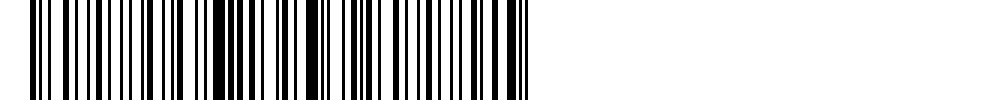
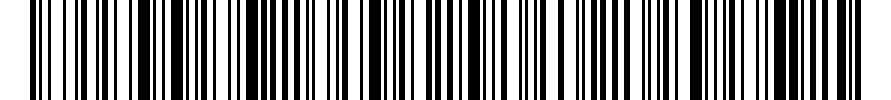
1. Changed width in text_to_code >> 2. Minor UI changes in code_to_data

diff --git a/text_to_code.c b/text_to_code.c
@@ -1,8 +1,8 @@
-#include<stdio.h>
-#include<math.h>
-#include<string.h>
-# define startB 211214
-# define stop 233111
+#include <stdio.h>
+#include <math.h>
+#include <string.h>
+#define startB 211214 //This code is to generade tybe B code 128 barcode
+#define stop 233111   //This is the stooping character to terminate the barcode
 
 #define STB_IMAGE_WRITE_IMPLEMENTATION
 #include "stb_image_write.h"
@@ -10,178 +10,190 @@
 #define channel 1
 #define line 3
 
-int reference[95]={
-212222,
-222122,
-222221,
-121223,
-121322,
-131222,
-122213,
-122312,
-132212,
-221213,
-221312,
-231212,
-112232,
-122132,
-122231,
-113222,
-123122,
-123221,
-223211,
-221132,
-221231,
-213212,
-223112,
-312131,
-311222,
-321122,
-321221,
-312212,
-322112,
-322211,
-212123,
-212321,
-232121,
-111323,
-131123,
-131321,
-112313,
-132113,
-132311,
-211313,
-231113,
-231311,
-112133,
-112331,
-132131,
-113123,
-113321,
-133121,
-313121,
-211331,
-231131,
-213113,
-213311,
-213131,
-311123,
-311321,
-331121,
-312113,
-312311,
-332111,
-314111,
-221411,
-431111,
-111224,
-111422,
-121124,
-121421,
-141122,
-141221,
-112214,
-112412,
-122114,
-122411,
-142112,
-142211,
-241211,
-221114,
-413111,
-241112,
-134111,
-111242,
-121142,
-121241,
-114212,
-124112,
-124211,
-411212,
-421112,
-421211,
-212141,
-214121,
-412121,
-111143,
-111341,
-131141
-};
+int reference[95] = {
+    212222,
+    222122,
+    222221,
+    121223,
+    121322,
+    131222,
+    122213,
+    122312,
+    132212,
+    221213,
+    221312,
+    231212,
+    112232,
+    122132,
+    122231,
+    113222,
+    123122,
+    123221,
+    223211,
+    221132,
+    221231,
+    213212,
+    223112,
+    312131,
+    311222,
+    321122,
+    321221,
+    312212,
+    322112,
+    322211,
+    212123,
+    212321,
+    232121,
+    111323,
+    131123,
+    131321,
+    112313,
+    132113,
+    132311,
+    211313,
+    231113,
+    231311,
+    112133,
+    112331,
+    132131,
+    113123,
+    113321,
+    133121,
+    313121,
+    211331,
+    231131,
+    213113,
+    213311,
+    213131,
+    311123,
+    311321,
+    331121,
+    312113,
+    312311,
+    332111,
+    314111,
+    221411,
+    431111,
+    111224,
+    111422,
+    121124,
+    121421,
+    141122,
+    141221,
+    112214,
+    112412,
+    122114,
+    122411,
+    142112,
+    142211,
+    241211,
+    221114,
+    413111,
+    241112,
+    134111,
+    111242,
+    121142,
+    121241,
+    114212,
+    124112,
+    124211,
+    411212,
+    421112,
+    421211,
+    212141,
+    214121,
+    412121,
+    111143,
+    111341,
+    131141};
 
-char data[50];int length,checksum,encrypt[20];char* img;int width=1000;
+char data[50];
+int length, checksum, encrypt[20];
+char *img;
+int width;
 
-void initializePic(){
-img = malloc(width*height*channel);
-if(img == NULL){
-printf("File could not be created!\n");
-exit(1);
-}
-for(int row=0;row<height;row++){
-    for(int col=0;col<width;col++)
-        img[row*width+col]=255;
-}
+void initializePic()
+{
+    width = ((length + 3) * 11 * line)+20*line+2*line; //A character in bar code has 12 lines or digits.
+            img = malloc(width * height * channel);
+    if (img == NULL)
+    {
+        printf("File could not be created!\n");
+        exit(1);
+    }
+    for (int row = 0; row < height; row++)
+    {
+        for (int col = 0; col < width; col++)
+            img[row * width + col] = 255; //creating a white background.
+    }
 }
 
 void drawVertical(int oneforwhite)
 {
-static int x = 0;
-for(int i = 0; i<height;i++)
-{
+    static int x = 0; //doesn't let x return to 0 in next loop
+    for (int i = 0; i < height; i++)
+    {
 
-for(int j = 0; j<line;j++)
-{
-img[i*width+x*line+j]=(1==oneforwhite)*255;
-}
-
-}
-x++;
-}
-
-void logic(){
-int sum=104;
-for(int i=0;i<length;i++)
-    sum+=data[i]*(i+1);
-checksum=sum%103;
-encrypt[0]=startB;
-for(int i=1;i<length+1;i++)
-    encrypt[i]=reference[data[i-1]];
-encrypt[length+1]=reference[checksum];
-encrypt[length+2]=stop;
-}
-
-void pattern(){
-    for(int i=0;i<length+3;i++){
-        int x[6],temp=encrypt[i];
-        for(int j=0;j<6;j++){
-            x[5-j]=temp%10;
-            temp/=10;
+        for (int j = 0; j < line; j++)
+        {
+            img[i * width + x * line + j] = (1 == oneforwhite) * 255;
         }
-        for(int j=0;j<3;j++){
-            for(int k=0;k<x[2*j];k++)
+    }
+    x++;
+}
+
+void logic()
+{
+    int sum = 104;
+    for (int i = 0; i < length; i++)
+        sum += data[i] * (i + 1);
+    checksum = sum % 103;
+    encrypt[0] = startB;
+    for (int i = 1; i < length + 1; i++)
+        encrypt[i] = reference[data[i - 1]];
+    encrypt[length + 1] = reference[checksum];
+    encrypt[length + 2] = stop;
+}
+
+void pattern()
+{
+    for (int i = 0; i < length + 3; i++)
+    {
+        int x[6], temp = encrypt[i];
+        for (int j = 0; j < 6; j++)
+        {
+            x[5 - j] = temp % 10;
+            temp /= 10;
+        }
+        for (int j = 0; j < 3; j++)
+        {
+            for (int k = 0; k < x[2 * j]; k++)
                 drawVertical(0);
-            for(int k=0;k<x[2*j+1];k++)
+            for (int k = 0; k < x[2 * j + 1]; k++)
                 drawVertical(1);
         }
-
     }
 }
 
-void main(){      
+void main()
+{
     printf("Enter the text you want the bar code of:\n");
     gets(data);
-    length=strlen(data);    
+    length = strlen(data);
+
     initializePic();
-    for(int i=0;i<10;i++)
+    for (int i = 0; i < 10; i++)
         drawVertical(1);
-    for(int i=0;i<length;i++)
-        data[i]-=32;
+    for (int i = 0; i < length; i++)
+        data[i] -= 32; //ASCII value is 32 more than Barcode value
     logic();
-    for(int i=0;i<length+3;i++)
-        printf("%d ",encrypt[i]);
-    
+    //for (int i = 0; i < length + 3; i++)
+    //  printf("%d ", encrypt[i]);
+
     pattern();
-    drawVertical(0);   
-    stbi_write_jpg("result.jpg",width,height,channel,img,100);
+    drawVertical(0);
+    drawVertical(0);
+    stbi_write_jpg("result.jpg", width, height, channel, img, 100);
     free(img);
-    printf("\nThe image of the bar code has been generated in the file 'result.jpg'.\n"); 
+    printf("\nThe image of the bar code has been generated in the file 'result.jpg'.\n");
 }

diff --git a/code_to_data.c b/code_to_data.c
@@ -180,10 +180,12 @@ void main(){
         }
     }
     for(int i=0;i<width;i++)
-        data[i]/=factor;     
-    printf("Width=%dpx\nHeight=%dpx\nChannels=%d\n",width,height,channel);    
+        data[i]/=factor;
+    printf("\nImage information:\n");     
+    printf("Width=%dpx\t\tHeight=%dpx\t\tChannels=%d\n\n",width,height,channel);
+    printf("\nThe numeric code is:\n");    
     code();
-    printf("\n");
+    printf("\n\nThe decoded text is:\n");
     decode();
     stbi_image_free(img);
 }
